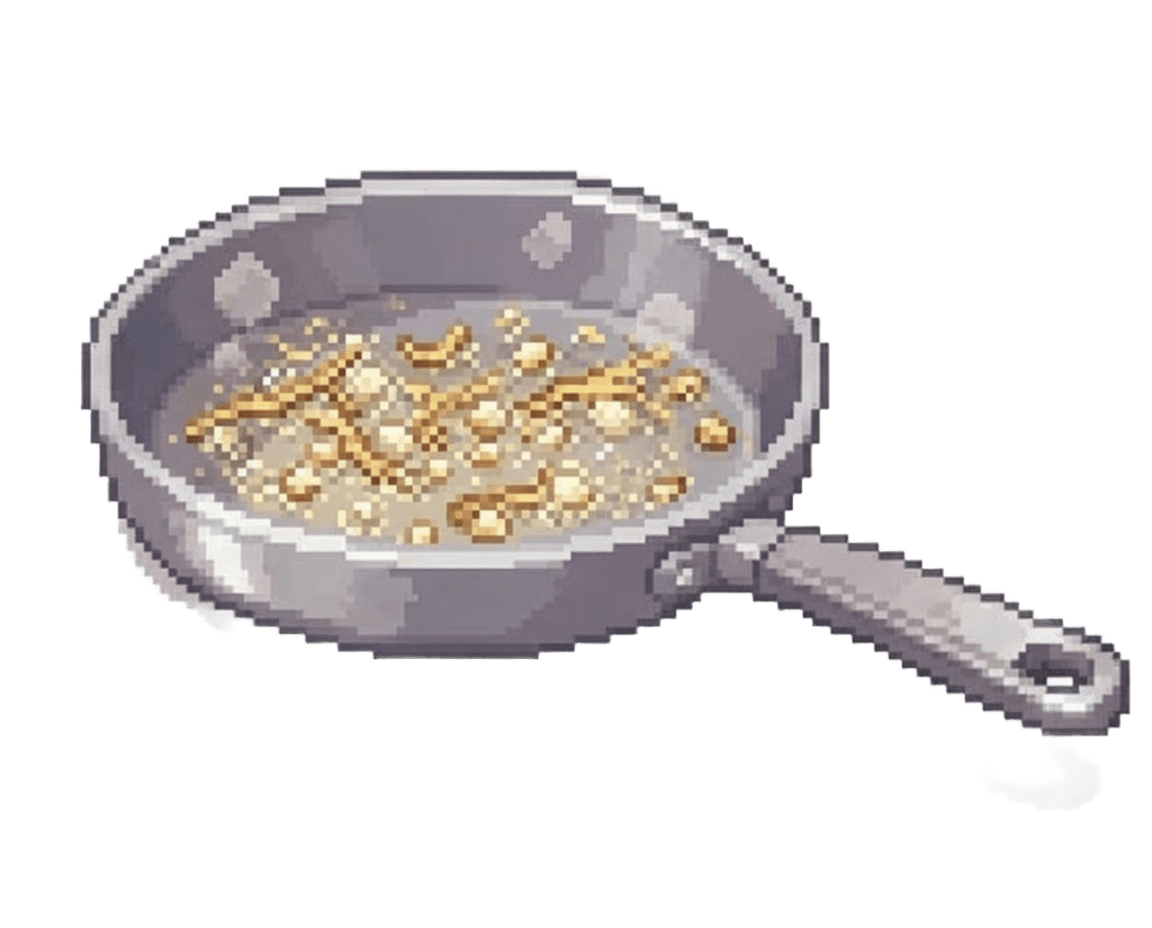
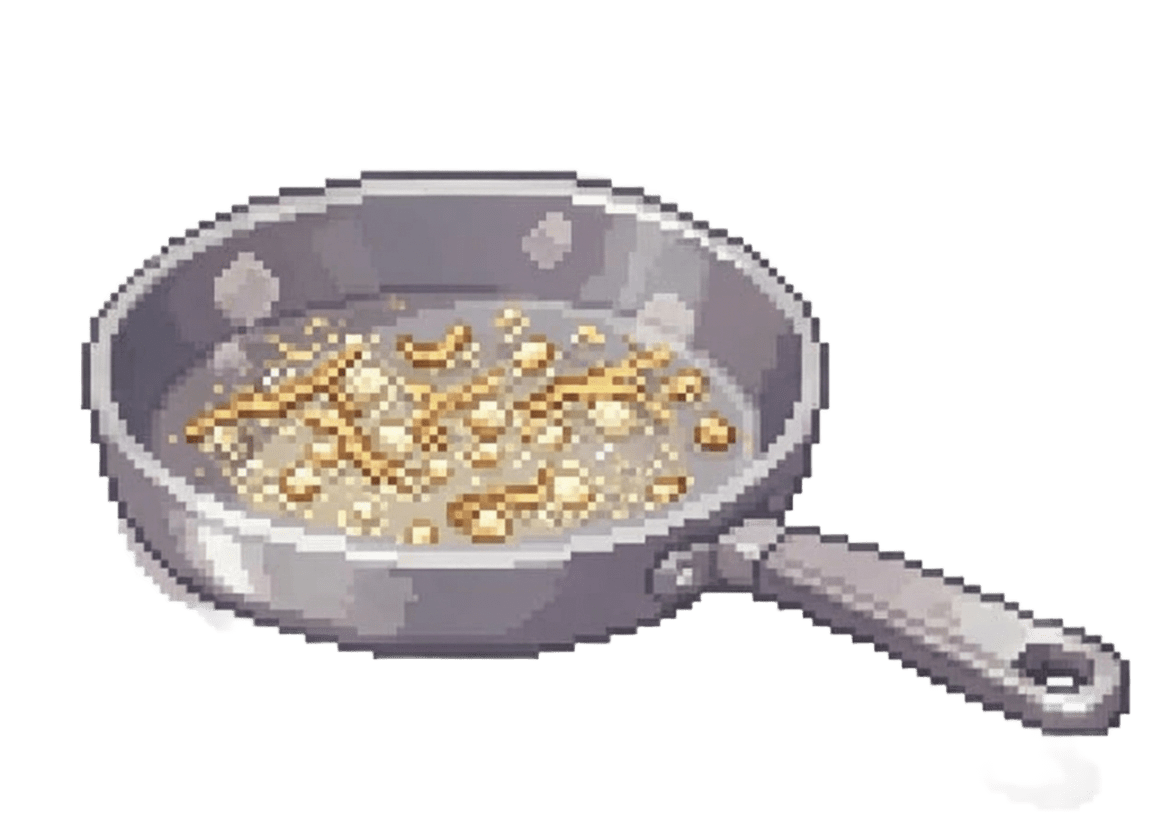
feat(ui): polish dish-step visuals and HUD copy
Aligned Curry Feng/Lor step titles and phase labels.
Standardized process sprite sizing/aspect handling.
Fixed Step 4 dish visuals and plate asset mapping.
Hid restart button during play.
Removed QWER-specific copy and Step 2 “Button:” banner.
Layered Step 3 combo alert above target UI.
Updated end screens to centered Press [blue icon] to return to title

Changed region(s): [[0.0625, 0.1562, 1.0, 0.9062]]

diff --git a/vite-app/src/game/render.js b/vite-app/src/game/render.js
@@ -35,6 +35,10 @@ function drawImageContain(ctx, img, x, y, w, h) {
   ctx.drawImage(img, dx, dy, dw, dh);
 }
 
+function drawImageContainCentered(ctx, img, cx, cy, w, h) {
+  drawImageContain(ctx, img, cx - w / 2, cy - h / 2, w, h);
+}
+
 function drawButtonIcon(ctx, assets, label, x, y, size, { glow = false } = {}) {
   const key = String(label || "").toUpperCase();
   const img = assets?.[KEY_TO_BUTTON_ASSET[key]];
@@ -1325,7 +1329,13 @@ export function drawStep2Intro(ctx, canvas, step2, assets = {}) {
   ctx.fillStyle = "#ffe066";
   ctx.font = "bold 44px Courier New";
   ctx.fillText(
-    isChineseStep2 ? "Step 2: Add Chicken and Start the Braise" : "Step 2: Start Cooking the Chicken",
+    isCurryFeng && !isCurryStep3Braise
+      ? "Step 2: Fry the Aromatics Until Fragrant"
+      : isCurryStep3Braise
+        ? "Step 3: Add the Pork and Build the Curry"
+        : isChineseStep2
+          ? "Step 2: Add Chicken and Start the Braise"
+          : "Step 2: Start Cooking the Chicken",
     canvas.width / 2,
     panelY + 88
   );
@@ -1567,6 +1577,7 @@ export function drawStep2Gameplay(ctx, canvas, step2, assets = {}) {
   }
 
   if (String(step2?.mode || "") === "lor-braise") {
+    const PROCESS_IMG_SIZE = 180;
     const isCurryFeng = String(step2?.dishName || "") === "CURRY FENG";
     const isCurryStep3Braise = isCurryFeng && String(step2?.braiseVariant || "") === "chili-pork";
     const stepTitle = isCurryFeng && !isCurryStep3Braise
@@ -1589,11 +1600,11 @@ export function drawStep2Gameplay(ctx, canvas, step2, assets = {}) {
     }[step2?.phase] || "Start the braise";
 
     const hintText = {
-      addOilClove: "Follow the Q/W/E/R sequence",
+      addOilClove: "Follow the shown sequence",
       addOilCloveAnim: isCurryFeng
         ? (isCurryStep3Braise ? "Oil and chili are pouring into the pot" : "Oil and chopped garlic/ginger are pouring into the pot")
         : "Oil and clove are pouring into the pot",
-      addChicken: "Follow the Q/W/E/R sequence",
+      addChicken: "Follow the shown sequence",
       addChickenAnim: `${add2Label[0].toUpperCase()}${add2Label.slice(1)} pieces are going into the pot`,
       heat: `Hold heat in green zone (${Math.max(0, Number(step2?.heatTimer || 0)).toFixed(1)}s)`
     }[step2?.phase] || "";
@@ -1625,7 +1636,7 @@ export function drawStep2Gameplay(ctx, canvas, step2, assets = {}) {
       ? (assets?.chili || assets?.step2_chinese_oil)
       : assets?.step2_chinese_oil;
     const aromatics = isCurryStep3Braise
-      ? (assets?.pork || assets?.step2_chinese_clove)
+      ? (assets?.chili || assets?.step2_chinese_clove)
       : isCurryFeng
       ? (assets?.step2_eurasian_chopped_garlic_ginger || assets?.step2_chinese_clove)
       : assets?.step2_chinese_clove;
@@ -1732,7 +1743,7 @@ export function drawStep2Gameplay(ctx, canvas, step2, assets = {}) {
         ctx.save();
         ctx.translate(ox, oy);
         ctx.rotate(-0.5 + progress * 0.35);
-        ctx.drawImage(oilBottle, -88, -112, 176, 224);
+        drawImageContainCentered(ctx, oilBottle, 0, 0, PROCESS_IMG_SIZE, PROCESS_IMG_SIZE);
         ctx.restore();
       }
 
@@ -1740,7 +1751,7 @@ export function drawStep2Gameplay(ctx, canvas, step2, assets = {}) {
         ctx.save();
         ctx.translate(cx, cy);
         ctx.rotate(-0.4 + progress * 0.4);
-        ctx.drawImage(aromatics, -74, -52, 148, 104);
+        drawImageContainCentered(ctx, aromatics, 0, 0, PROCESS_IMG_SIZE, PROCESS_IMG_SIZE);
         ctx.restore();
       }
     }
@@ -1754,7 +1765,7 @@ export function drawStep2Gameplay(ctx, canvas, step2, assets = {}) {
         ctx.save();
         ctx.translate(cx, cy);
         ctx.rotate(-0.35 + progress * 0.42);
-        ctx.drawImage(chicken, -94, -64, 188, 128);
+        drawImageContainCentered(ctx, chicken, 0, 0, PROCESS_IMG_SIZE, PROCESS_IMG_SIZE);
         ctx.restore();
       }
     }
@@ -1807,26 +1818,6 @@ export function drawStep2Gameplay(ctx, canvas, step2, assets = {}) {
       ctx.fillText(`${timerLeft.toFixed(1)}s`, canvas.width / 2, timerY - 12);
     }
 
-    const actionPanelW = 760;
-    const actionPanelH = 64;
-    const actionPanelX = canvas.width / 2 - actionPanelW / 2;
-    const actionPanelY = 110;
-    ctx.fillStyle = "rgba(0,0,0,0.42)";
-    ctx.fillRect(actionPanelX, actionPanelY, actionPanelW, actionPanelH);
-    ctx.strokeStyle = "rgba(255,255,255,0.2)";
-    ctx.strokeRect(actionPanelX, actionPanelY, actionPanelW, actionPanelH);
-
-    const actionText = step2?.phase === "addOilClove" || step2?.phase === "addOilCloveAnim"
-      ? (isCurryFeng
-        ? (isCurryStep3Braise ? "Button: Add oil & chili to pot" : "Button: Add oil & chopped garlic/ginger to pot")
-        : "Button: Add oil & clove to pot")
-      : step2?.phase === "addChicken" || step2?.phase === "addChickenAnim"
-        ? `Button: Add ${add2Label} pieces`
-        : "Heat phase: tap rhythm on Q/W/E/R";
-    ctx.fillStyle = "#ffe066";
-    ctx.font = "bold 22px Courier New";
-    ctx.fillText(actionText, canvas.width / 2, actionPanelY + 39);
-
     ctx.restore();
     return;
   }
@@ -1843,9 +1834,9 @@ export function drawStep2Gameplay(ctx, canvas, step2, assets = {}) {
   const comboIndex = Math.max(0, Number(step2?.comboIndex || 0));
 
   const hintText = {
-    addPaste: "Press the shown colored buttons in order",
+    addPaste: "Follow the shown button sequence",
     addPasteAnim: "Paste animation",
-    addChicken: "Press the shown colored buttons in order",
+    addChicken: "Follow the shown button sequence",
     addChickenAnim: "Chicken animation",
     boil: `Spam buttons: ${Math.max(0, Number(step2?.boilSpamCount || 0))}/${Math.max(1, Number(step2?.boilSpamNeed || 1))}`
   }[step2?.phase] || "Follow the next action";
@@ -1917,13 +1908,6 @@ export function drawStep2Gameplay(ctx, canvas, step2, assets = {}) {
 
       drawButtonIcon(ctx, assets, key, sx, sy, size, { glow: isDone });
 
-      ctx.fillStyle = "rgba(0,0,0,0.72)";
-      ctx.fillRect(sx + size - 20, sy + size - 16, 18, 14);
-      ctx.fillStyle = "#fff";
-      ctx.font = "bold 10px Courier New";
-      ctx.textAlign = "center";
-      ctx.textBaseline = "middle";
-      ctx.fillText(key, sx + size - 11, sy + size - 9);
       ctx.restore();
 
       sx += size + gap;
@@ -1990,6 +1974,7 @@ export function drawStep2Gameplay(ctx, canvas, step2, assets = {}) {
   }
 
   if (step2?.phase === "addChickenAnim") {
+    const PROCESS_IMG_SIZE = 180;
     const progress = 1 - Math.max(0, Math.min(1, Number(step2?.transitionT || 0) / 0.85));
     const cx = potX - 120 + progress * (potW * 0.46);
     const cy = potY - 10 + progress * 138;
@@ -1997,7 +1982,7 @@ export function drawStep2Gameplay(ctx, canvas, step2, assets = {}) {
       ctx.save();
       ctx.translate(cx, cy);
       ctx.rotate(-0.35 + progress * 0.42);
-      ctx.drawImage(chicken, -94, -64, 188, 128);
+      drawImageContainCentered(ctx, chicken, 0, 0, PROCESS_IMG_SIZE, PROCESS_IMG_SIZE);
       ctx.restore();
     } else {
       ctx.fillStyle = "rgba(255, 205, 120, 0.95)";
@@ -2337,7 +2322,7 @@ export function drawStep3Gameplay(ctx, canvas, game, assets = {}, yTop = 140, bo
   ctx.textAlign = "center";
   ctx.textBaseline = "middle";
 
-  const headerY = Math.max(96, yTop + 52);
+  const headerY = 148;
   ctx.fillStyle = "rgba(0,0,0,0.52)";
   ctx.fillRect(canvas.width / 2 - 360, headerY - 40, 720, 100);
   ctx.strokeStyle = "rgba(255,255,255,0.2)";
@@ -2694,7 +2679,13 @@ export function drawStep4Gameplay(ctx, canvas, game, assets = {}, yTop = 140, bo
     : usesLorStyleFlow
     ? (assets?.step2_chinese_pot_stage2 || assets?.step2_pot_finished || assets?.step2_pot)
     : (assets?.step2_pot_finished || assets?.step2_pot_paste || assets?.step2_pot);
-  const ricePlate = usesLorStyleFlow ? assets?.rice_plate : null;
+  const ricePlate = isCurryFeng
+    ? (assets?.curry_plate || assets?.rice_plate || assets?.plate)
+    : dishName === "LOR KAI YIK"
+    ? (assets?.rice_plate || assets?.plate)
+    : dishName === "AYAM BUAH KELUAK"
+    ? (assets?.chinese_plate || assets?.plate || assets?.rice_plate)
+    : (usesLorStyleFlow ? assets?.rice_plate : null);
   const spoon = usesLorStyleFlow
     ? (assets?.scoop_spoon_empty || assets?.scoop_spoon_stir)
     : (assets?.scoop_spoon_full || assets?.scoop_spoon_half || assets?.scoop_spoon_empty);
@@ -2734,7 +2725,7 @@ export function drawStep4Gameplay(ctx, canvas, game, assets = {}, yTop = 140, bo
     drawImageContain(ctx, pot, potX, potY, potW, potH);
   }
 
-  if (usesLorStyleFlow && s4.phase !== "final") {
+  if (s4.phase !== "final") {
     if (ricePlate) {
       drawImageContain(ctx, ricePlate, plateX, plateY, plateW, plateH);
     } else {
@@ -2783,13 +2774,6 @@ export function drawStep4Gameplay(ctx, canvas, game, assets = {}, yTop = 140, bo
 
       drawButtonIcon(ctx, assets, key, sx, sy, size, { glow: isDone || isNext });
 
-      ctx.fillStyle = "rgba(0,0,0,0.72)";
-      ctx.fillRect(sx + size - 20, sy + size - 16, 18, 14);
-      ctx.fillStyle = "#fff";
-      ctx.font = "bold 10px Courier New";
-      ctx.textAlign = "center";
-      ctx.textBaseline = "middle";
-      ctx.fillText(key, sx + size - 11, sy + size - 9);
       ctx.restore();
 
       sx += size + gap;
@@ -2888,7 +2872,7 @@ export function drawStep1Gameplay(ctx, canvas, step1, assets = {}) {
     const hintText = {
       addChili: `Chilies added: ${chiliCount}/${chiliNeed}`,
       grindDoneAnim: "Switching to grinded chili mortar"
-    }[phase] || "Use Q/W/E/R";
+    }[phase] || "Follow the shown sequence";
 
     const instructionX = canvas.width / 2;
     const instructionY = canvas.height - 172;
@@ -3346,15 +3330,27 @@ export function drawGameOver(ctx, canvas, game = {}, assets = {}) {
     }
   }
 
-  const icon = assets?.btn_q || assets?.["blue-btn"];
-  const btnSize = 58;
-  const bx = canvas.width / 2 - 170;
+  const bx = canvas.width / 2;
   const by = panelY + panelH - 76;
-  if (icon) ctx.drawImage(icon, bx, by - btnSize / 2, btnSize, btnSize);
   ctx.fillStyle = "#ffe066";
   ctx.font = "bold 22px Courier New";
   ctx.textAlign = "left";
-  ctx.fillText("Press Q to return to title", bx + 72, by + 8);
+  const btnIcon = assets?.btn_q || assets?.["blue-btn"];
+  const btnSize = 34;
+  const leftText = "Press ";
+  const rightText = "to return to title";
+  const leftW = ctx.measureText(leftText).width;
+  const rightW = ctx.measureText(rightText).width;
+  const iconW = btnIcon ? (btnSize + 8) : 0;
+  const totalW = leftW + iconW + rightW;
+  let tx = bx - totalW / 2;
+  ctx.fillText(leftText, tx, by + 8);
+  tx += leftW;
+  if (btnIcon) {
+    ctx.drawImage(btnIcon, tx, by - btnSize / 2 + 6, btnSize, btnSize);
+    tx += btnSize + 8;
+  }
+  ctx.fillText(rightText, tx, by + 8);
   ctx.restore();
 }
 
@@ -3430,15 +3426,27 @@ export function drawWin(ctx, canvas, game = {}, assets = {}) {
     }
   }
 
-  const icon = assets?.btn_q || assets?.["blue-btn"];
-  const btnSize = 58;
-  const bx = canvas.width / 2 - 170;
+  const bx = canvas.width / 2;
   const by = panelY + panelH - 28;
-  if (icon) ctx.drawImage(icon, bx, by - btnSize / 2, btnSize, btnSize);
   ctx.fillStyle = "#ffe066";
   ctx.font = "bold 22px Courier New";
   ctx.textAlign = "left";
-  ctx.fillText("Press Q to return to title", bx + 72, by + 8);
+  const btnIcon = assets?.btn_q || assets?.["blue-btn"];
+  const btnSize = 34;
+  const leftText = "Press ";
+  const rightText = "to return to title";
+  const leftW = ctx.measureText(leftText).width;
+  const rightW = ctx.measureText(rightText).width;
+  const iconW = btnIcon ? (btnSize + 8) : 0;
+  const totalW = leftW + iconW + rightW;
+  let tx = bx - totalW / 2;
+  ctx.fillText(leftText, tx, by + 8);
+  tx += leftW;
+  if (btnIcon) {
+    ctx.drawImage(btnIcon, tx, by - btnSize / 2 + 6, btnSize, btnSize);
+    tx += btnSize + 8;
+  }
+  ctx.fillText(rightText, tx, by + 8);
   ctx.restore();
 }
 

diff --git a/vite-app/src/game/engine.js b/vite-app/src/game/engine.js
@@ -4,6 +4,7 @@ import { dishes, keyLabels, PENALTY, ingredientPool } from "./data.js";
 import {
   drawBackground,
   drawTopStack,
+  drawHeroAlert,
   drawComboFlames,
   drawPlate,
   drawProcessOverlay,
@@ -102,6 +103,14 @@ export function createGame({ canvas, startBtn, restartBtn, hud }) {
       loadImage("btn_e", "/assets/ui/yellow-btn.png"),
       loadImage("btn_r", "/assets/ui/white-btn.png"),
       loadImage("rice_plate", "/assets/ui/rice_plate.png"),
+      loadImageVariants("chinese_plate", [
+        "/assets/ui/chinese_plate.png",
+        "/assets/ui/chinese-plate.png"
+      ]),
+      loadImageVariants("curry_plate", [
+        "/assets/ui/curry_plate.png",
+        "/assets/ui/curry-plate.png"
+      ]),
       loadImageVariants("smash_pestle", [
         "/assets/process1/pestle.png",
         "/assets/process1/pestle (1).png"
@@ -2391,7 +2400,7 @@ export function createGame({ canvas, startBtn, restartBtn, hud }) {
     game.cookIconsDone = seq.map(() => false);
     game.cookIconJitter = seq.map(() => 0);
 
-    setAlert("COOK: match the icons (QWER)", "rgba(255, 224, 102, 0.95)", 0.9);
+    setAlert("COOK: match the icon sequence", "rgba(255, 224, 102, 0.95)", 0.9);
   }
 
   function advanceStep() {
@@ -2426,7 +2435,7 @@ export function createGame({ canvas, startBtn, restartBtn, hud }) {
     const step = currentStep();
     if (step) {
       if (step.type === "serve") setAlert("SERVE: press GREEN BUTTON", "rgba(128, 255, 114, 0.92)", 0.9);
-      else if (step.type === "cook") setAlert("COOK: match the icons (QWER)", "rgba(255, 224, 102, 0.90)", 0.9);
+      else if (step.type === "cook") setAlert("COOK: match the icon sequence", "rgba(255, 224, 102, 0.90)", 0.9);
       else if (step.type === "combo") setAlert(`${step.process || "COMBO PROCESS"}`, "rgba(255, 224, 102, 0.90)", 0.9);
       else setAlert(`NEXT: ${step.label}`, "rgba(255, 224, 102, 0.90)", 0.9);
     }
@@ -2459,7 +2468,7 @@ export function createGame({ canvas, startBtn, restartBtn, hud }) {
     game.endRecorded = false;
 
     startBtn.style.display = "none";
-    restartBtn.style.display = "block";
+    restartBtn.style.display = "none";
 
     loadDish(selectedDish);
     updateHUD();
@@ -3043,6 +3052,7 @@ function handlePrepOrActionPress(pressedIngredient) {
         drawStep4Gameplay(ctx, canvas, game, assets, uiBottomY, bottomUiTop);
       } else if (shouldRunStep3GameplayFlow() || (game.step3.active && String(game.step3?.mode || "") === "laksa-broth")) {
         drawStep3Gameplay(ctx, canvas, game, assets, uiBottomY, bottomUiTop);
+        drawHeroAlert(ctx, canvas, alertState, 106);
       } else {
         let y = uiBottomY;
         y += drawComboFlames(ctx, canvas, game, y) + 10;

diff --git a/vite-app/src/game/data.js b/vite-app/src/game/data.js
@@ -43,7 +43,7 @@ export const dishes = [
       {
         type: "combo",
         process: "Process 1: Smash & Prep Keluak",
-        label: "Hit random 8-beat chop/mash combos (QWER). Fast rhythm = smooth paste.",
+        label: "Hit random 8-beat chop/mash combos. Fast rhythm = smooth paste.",
         comboMode: "smash",
         targetBeats: 8,
         time: 10,
